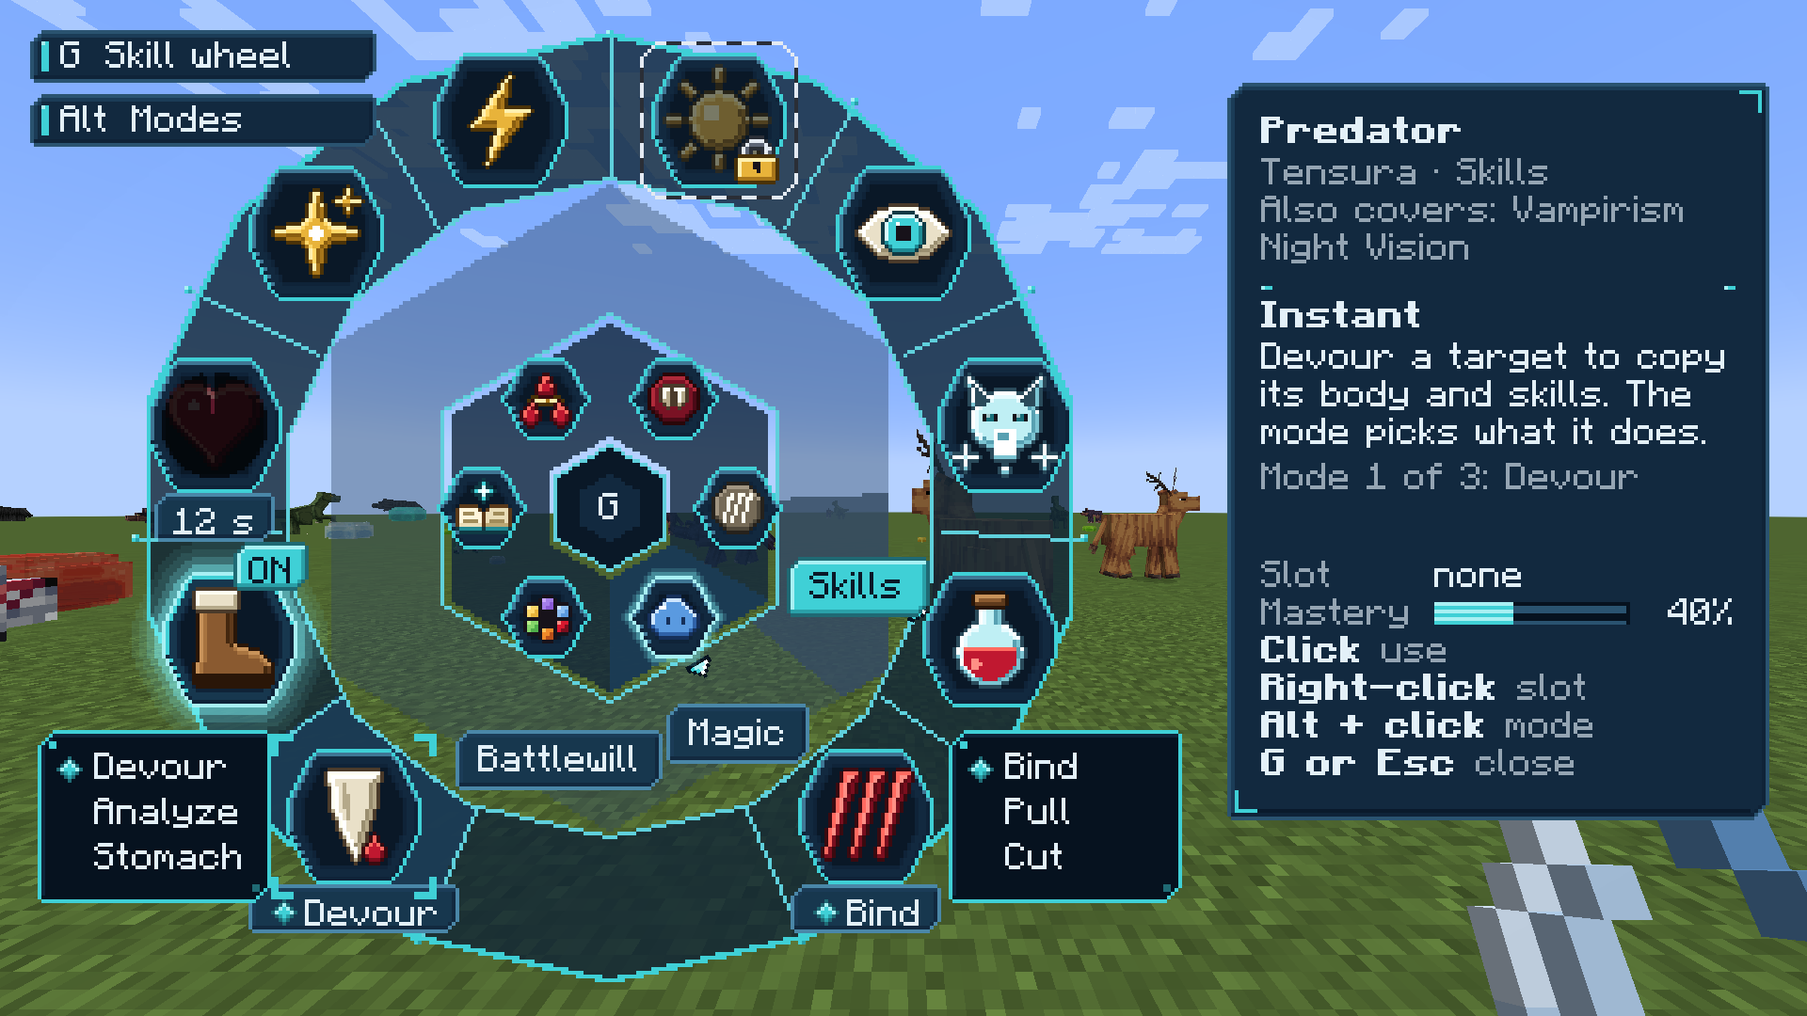
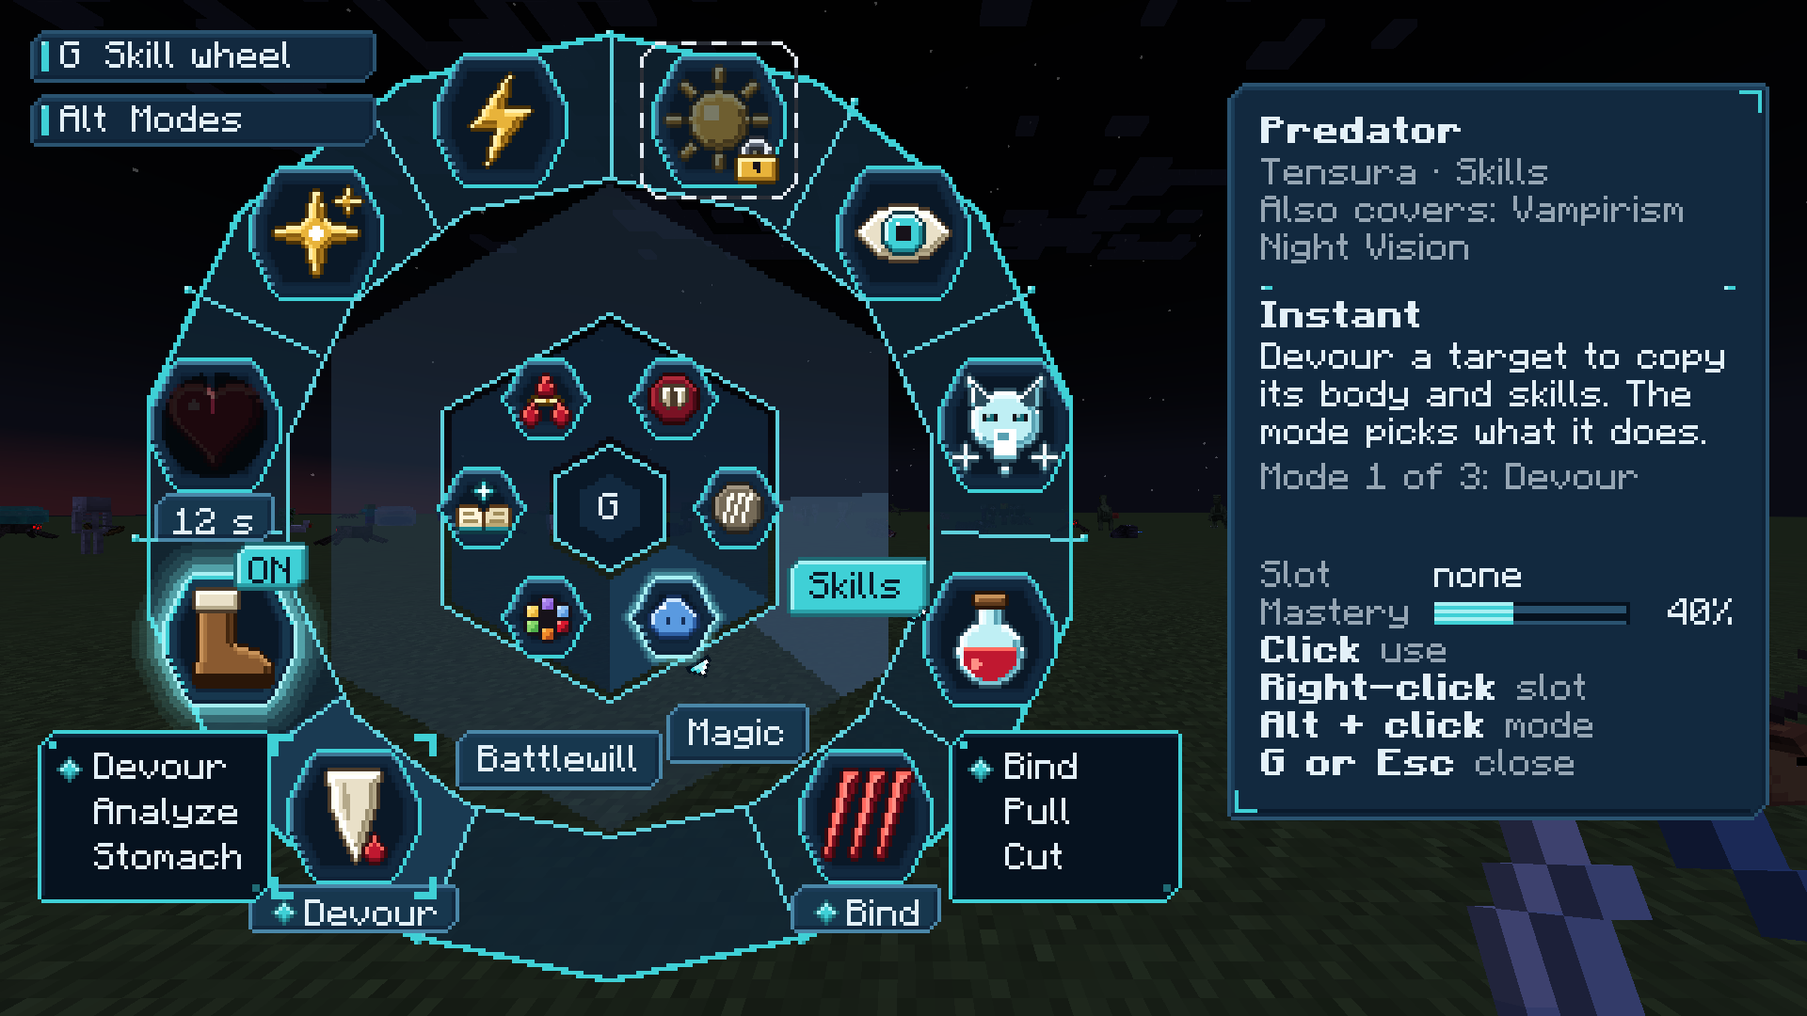
fix(wheel): W4b round-2 notes (lock sprite contrast, lock box sized to its lines, description narrated, scan-code key and window focus, stale hover)

diff --git a/src/main/java/net/ofatech/supernaturalbloodlines/core/wheel/WheelPanelText.java b/src/main/java/net/ofatech/supernaturalbloodlines/core/wheel/WheelPanelText.java
@@ -12,7 +12,9 @@ import net.ofatech.supernaturalbloodlines.shared.hub.kit.TextCache;
  */
 public final class WheelPanelText {
     public static final int LINE = 10;
-    public static final int LOCK_BOX = 42;
+    /** The lock box is a title line and its reason lines between 4 px of padding; the next block starts 4 px under it. */
+    public static final int LOCK_BOX_BASE = 18;
+    public static final int LOCK_BOX_GAP = 4;
     public static final int MAX_LINES = 4;
 
     /** The panel's text, cut and wrapped to fit. {@code description}, {@code mode} and {@code lock} are empty lists when there is nothing (or no room) for them. */
@@ -43,11 +45,16 @@ public final class WheelPanelText {
      * @param top       y where the description would start
      * @param bottom    y of the first row that must stay free (the slot row)
      * @param modeLines how many lines the mode text takes (0 for a power without modes)
-     * @param locked    the lock box is drawn
+     * @param lockLines how many lines of reason the lock box holds (0: no lock box)
      */
-    public static int descriptionLines(int top, int bottom, int modeLines, boolean locked) {
-        int free = bottom - top - modeLines * LINE - (locked ? LOCK_BOX : 0) - 2;
+    public static int descriptionLines(int top, int bottom, int modeLines, int lockLines) {
+        int free = bottom - top - modeLines * LINE - (lockLines > 0 ? lockBoxHeight(lockLines) + LOCK_BOX_GAP : 0) - 2;
         return Math.max(0, Math.min(MAX_LINES, free / LINE));
+    }
+
+    /** How tall the lock box is for {@code reasonLines} lines of reason: the box holds exactly what it says, so a one-line reason leaves a line more for the description. */
+    public static int lockBoxHeight(int reasonLines) {
+        return LOCK_BOX_BASE + LINE * Math.max(1, reasonLines);
     }
 
     /** {@code mode} and {@code lock} are empty strings when the power has no modes or is not locked. */
@@ -56,9 +63,9 @@ public final class WheelPanelText {
         return LINES.get(new LinesKey(font, width, top, bottom, name, where, cover, kind, description, mode, lock), () -> {
             List<String> coverLines = cover.isEmpty() ? List.of() : TextCache.wrap(font, cover, width, 2, measure);
             List<String> modeLines = mode.isEmpty() ? List.of() : TextCache.wrap(font, mode, width, 2, measure);
-            int room = descriptionLines(top + coverLines.size() * LINE, bottom, modeLines.size(), !lock.isEmpty());
-            List<String> desc = description.isEmpty() || room == 0 ? List.of() : TextCache.wrap(font, description, width, room, measure);
             List<String> lockLines = lock.isEmpty() ? List.of() : TextCache.wrap(font, lock, width - 22, 2, measure);
+            int room = descriptionLines(top + coverLines.size() * LINE, bottom, modeLines.size(), lockLines.size());
+            List<String> desc = description.isEmpty() || room == 0 ? List.of() : TextCache.wrap(font, description, width, room, measure);
             return new Lines(TextCache.cut(font, name, width, measure), TextCache.cut(font, where, width, measure), coverLines, TextCache.cut(font, kind, width, measure), desc, modeLines,
                     lockLines);
         });

diff --git a/src/test/java/net/ofatech/supernaturalbloodlines/core/wheel/WheelContrastTest.java b/src/test/java/net/ofatech/supernaturalbloodlines/core/wheel/WheelContrastTest.java
@@ -56,11 +56,52 @@ class WheelContrastTest {
         }
     }
 
+    /** The colours a sprite is drawn in: [0] the lightest and [1] the darkest of those that fill at least a tenth of its opaque pixels (its fill and its outline). */
+    private int[] spriteColours(String path) throws Exception {
+        try (InputStream in = getClass().getResourceAsStream(path)) {
+            assertNotNull(in, path + " is missing");
+            java.awt.image.BufferedImage img = javax.imageio.ImageIO.read(in);
+            java.util.Map<Integer, Integer> counts = new java.util.HashMap<>();
+            int opaque = 0;
+            for (int y = 0; y < img.getHeight(); y++) {
+                for (int x = 0; x < img.getWidth(); x++) {
+                    int argb = img.getRGB(x, y);
+                    if ((argb >>> 24) > 128) {
+                        counts.merge(argb | 0xFF000000, 1, Integer::sum);
+                        opaque++;
+                    }
+                }
+            }
+            final int total = opaque;
+            List<Integer> main = counts.entrySet().stream().filter(e -> e.getValue() * 10 >= total).map(java.util.Map.Entry::getKey).toList();
+            assertTrue(!main.isEmpty(), path + " has no main colour");
+            int light = main.get(0);
+            int dark = main.get(0);
+            for (int c : main) {
+                light = Contrast.ratio(c, 0xFF000000) > Contrast.ratio(light, 0xFF000000) ? c : light;
+                dark = Contrast.ratio(c, 0xFF000000) < Contrast.ratio(dark, 0xFF000000) ? c : dark;
+            }
+            return new int[] {light, dark};
+        }
+    }
+
+    /** The middle of a cell sprite: what the lock is drawn over. */
+    private int cellFace(String kit) throws Exception {
+        try (InputStream in = getClass().getResourceAsStream(SPRITES + "kit/" + kit + "/wheel_cell_36.png")) {
+            assertNotNull(in, kit + " cell is missing");
+            return javax.imageio.ImageIO.read(in).getRGB(18, 18) | 0xFF000000;
+        }
+    }
+
     @Test
-    void theLockOnACellReadsAt3To1() {
-        for (Look look : Look.values()) {
-            WheelPalette p = WheelPalette.of(look);
-            assertTrue(Contrast.ratio(p.lockOnCell(), p.cell()) >= 3.0, look + " lock on its cell: " + Contrast.ratio(p.lockOnCell(), p.cell()));
+    void theLockSpritesOwnColoursReadAt3To1OnEveryThemesCell() throws Exception {
+        for (int size : new int[] {16, 32}) {
+            int[] lock = spriteColours(SPRITES + "icons/" + size + "/lock.png");
+            for (String kit : KitSprites.KITS) {
+                int face = cellFace(kit);
+                double best = Math.max(Contrast.ratio(lock[0], face), Contrast.ratio(lock[1], face));
+                assertTrue(best >= 3.0, String.format("the %d px lock (fill %06x, outline %06x) on the %s cell %06x: %.2f", size, lock[0] & 0xFFFFFF, lock[1] & 0xFFFFFF, kit, face & 0xFFFFFF, best));
+            }
         }
     }
     @Test

diff --git a/src/main/java/net/ofatech/supernaturalbloodlines/core/wheel/WheelPalette.java b/src/main/java/net/ofatech/supernaturalbloodlines/core/wheel/WheelPalette.java
@@ -11,17 +11,17 @@ import net.ofatech.supernaturalbloodlines.core.wheel.WheelLayout.Look;
  * @param onPill the colour of the text on the ON pill and the selected chip, and {@code pill} what it is written on
  */
 public record WheelPalette(int outerBand, int outerLit, int innerBand, int innerLit, int middleTrack, int middleLit, int hub, int seal, int line, int rim, int ink, int muted,
-                           int panel, int warn, int pill, int onPill, int hintInk, int hintOn, int cell, int lockOnCell, int innerLine) {
+                           int panel, int warn, int pill, int onPill, int hintInk, int hintOn, int innerLine) {
     /** A text and what it is written on, for the contrast test. */
     public record TextPair(String what, int fg, int bg) {
     }
 
     public static final WheelPalette GRIMOIRE = new WheelPalette(0xE6CFBF8F, 0xF2F1E8CC, 0xF04A1919, 0xF0E9DDB8, 0x80B7A572, 0xF0F1E8CC, 0xFF260A0A, 0xFF9A1C22, 0xFF5C3A12, 0xFF4A2E0E,
-            0xFF2A1A10, 0xFF6A5236, 0xFFE9DDB8, 0xFF7A1218, 0xFF9A1C22, 0xFFF5ECCF, 0xFFF5ECCF, 0xFF4A1717, 0xFF2A1A10, 0xFFE8806E, 0xFFD9B766);
+            0xFF2A1A10, 0xFF6A5236, 0xFFE9DDB8, 0xFF7A1218, 0xFF9A1C22, 0xFFF5ECCF, 0xFFF5ECCF, 0xFF4A1717, 0xFFD9B766);
     public static final WheelPalette BLOOD_MOON = new WheelPalette(0xCC10060A, 0xE62E0F18, 0xCC1D0B13, 0xE62E141C, 0x66443640, 0xCC53333B, 0xFF211315, 0xFFBE4137, 0xFFE0A9A3, 0xFFFF7A6B,
-            0xFFFFF1EA, 0xFFC9A7A5, 0xFF1D0B13, 0xFFFF7A6B, 0xFFBE4137, 0xFFFFF1EA, 0xFFFFF1EA, 0xFF1D0B13, 0xFF1D0B13, 0xFFFF7A6B, 0xFFE0A9A3);
+            0xFFFFF1EA, 0xFFC9A7A5, 0xFF1D0B13, 0xFFFF7A6B, 0xFFBE4137, 0xFFFFF1EA, 0xFFFFF1EA, 0xFF1D0B13, 0xFFE0A9A3);
     public static final WheelPalette TENSURA = new WheelPalette(0xCC112636, 0xE61B3C56, 0xCC12263B, 0xE61B3C56, 0x66304761, 0xCC354B62, 0xFF0A1827, 0xFF12293F, 0xFF5FD0DC, 0xFF3FD0D6,
-            0xFFE6F3FB, 0xFF97A7B5, 0xFF12293F, 0xFFF0646A, 0xFF3FD0D6, 0xFF0A1827, 0xFFE6F3FB, 0xFF12293F, 0xFF12293F, 0xFFF0646A, 0xFF5FD0DC);
+            0xFFE6F3FB, 0xFF97A7B5, 0xFF12293F, 0xFFF0646A, 0xFF3FD0D6, 0xFF0A1827, 0xFFE6F3FB, 0xFF12293F, 0xFF5FD0DC);
 
     public static WheelPalette of(Look look) {
         return switch (look) {

diff --git a/src/main/java/net/ofatech/supernaturalbloodlines/parts/hud/client/wheel/WheelInput.java b/src/main/java/net/ofatech/supernaturalbloodlines/parts/hud/client/wheel/WheelInput.java
@@ -14,6 +14,7 @@ import net.neoforged.neoforge.common.NeoForge;
 import net.ofatech.supernaturalbloodlines.core.wheel.GestureMachine;
 import net.ofatech.supernaturalbloodlines.core.wheel.GestureMachine.Effect;
 import net.ofatech.supernaturalbloodlines.core.wheel.GestureMachine.Input;
+import net.ofatech.supernaturalbloodlines.core.wheel.KeyPoll;
 import net.ofatech.supernaturalbloodlines.core.wheel.WheelPalette;
 import net.ofatech.supernaturalbloodlines.parts.hud.client.HudClientConfig;
 import net.ofatech.supernaturalbloodlines.parts.hud.client.HudKeys;
@@ -153,7 +154,7 @@ public final class WheelInput {
             WheelActions.release();
         }
         if (machine.pending()) {
-            if (!live() || !physicallyDown(mc)) {
+            if (!live() || !physicallyDown(mc)) { // the poll and the window
                 machine = GestureMachine.IDLE;
                 return;
             }
@@ -167,11 +168,13 @@ public final class WheelInput {
         if (key.equals(InputConstants.UNKNOWN)) {
             return false;
         }
-        if (key.getType() == InputConstants.Type.MOUSE) {
-            return GLFW.glfwGetMouseButton(window, key.getValue()) == GLFW.GLFW_PRESS;
-        }
-        // a key bound by scan code cannot be polled by its code: the release event ends the press instead
-        return key.getType() != InputConstants.Type.KEYSYM || InputConstants.isKeyDown(window, key.getValue());
+        KeyPoll.Kind kind = key.getType() == InputConstants.Type.MOUSE ? KeyPoll.Kind.MOUSE : key.getType() == InputConstants.Type.KEYSYM ? KeyPoll.Kind.KEYSYM : KeyPoll.Kind.SCANCODE;
+        boolean polled = switch (kind) {
+            case MOUSE -> GLFW.glfwGetMouseButton(window, key.getValue()) == GLFW.GLFW_PRESS;
+            case KEYSYM -> InputConstants.isKeyDown(window, key.getValue());
+            case SCANCODE -> false; // not pollable by its code: the release event ends the press, or the window going inactive
+        };
+        return KeyPoll.pendingStillDown(kind, polled, mc.isWindowActive());
     }
 
     private static void step(Input in, boolean overPower) {

diff --git a/src/main/java/net/ofatech/supernaturalbloodlines/parts/hud/client/wheel/WheelScreen.java b/src/main/java/net/ofatech/supernaturalbloodlines/parts/hud/client/wheel/WheelScreen.java
@@ -170,6 +170,7 @@ public final class WheelScreen extends Screen {
             return;
         }
         layoutKey = key;
+        boolean rehit = layout != null;
         pageTotal = all.size();
         int from = Math.min(all.size(), open.page() * WheelLayout.PAGE_SIZE);
         page = all.subList(from, Math.min(all.size(), from + WheelLayout.PAGE_SIZE));
@@ -180,6 +181,9 @@ public final class WheelScreen extends Screen {
                 widths[i] = WheelPanelText.width(font, WheelRenderer.text("group." + groups.get(i).name().toLowerCase(Locale.ROOT)), font::width) + 10;
             }
             layout = layout.withLabelWidths(widths);
+        }
+        if (rehit && pickerRef == null && !DevWheel.active) {
+            cursor.rehit(layout.hit(mouseX, mouseY).orElse(null)); // the list changed under a resting pointer
         }
     }
 
@@ -643,7 +647,7 @@ public final class WheelScreen extends Screen {
         String state = WheelNarration.stateWord(e.state().on(), e.state().cooldownLeft(now), (key, args) -> Component.translatable(key, args).getString());
         String lock = e.state().locked() ? WheelRenderer.text("state.locked", WheelRenderer.reason(e.state().lock())) : "";
         List<String> lines = WheelNarration.lines(WheelRenderer.modName(source), groups.isEmpty() ? "" : WheelRenderer.text("group." + e.group().name().toLowerCase(Locale.ROOT)),
-                e.name().getString(), e.coverNote().getString(), e.modeNames().size() > 1 ? e.modeName().getString() : "", state, lock, open.page() * WheelLayout.PAGE_SIZE + h.index() + 1, pageTotal,
+                e.name().getString(), e.coverNote().getString(), WheelDescriptions.of(e), e.modeNames().size() > 1 ? e.modeName().getString() : "", state, lock, open.page() * WheelLayout.PAGE_SIZE + h.index() + 1, pageTotal,
                 open.page() + 1, layout.pageCount(), (key, args) -> Component.translatable(key, args).getString());
         out.add(NarratedElementType.TITLE, Component.literal(String.join(", ", lines)));
     }

diff --git a/src/main/java/net/ofatech/supernaturalbloodlines/core/wheel/WheelNarration.java b/src/main/java/net/ofatech/supernaturalbloodlines/core/wheel/WheelNarration.java
@@ -32,6 +32,12 @@ public final class WheelNarration {
     /** As above, with what else the power stands for (rule C) said right after its name; empty for nothing. */
     public static List<String> lines(String mod, String group, String power, String cover, String mode, String state, String lockReason, int index, int total, int page, int pages,
             BiFunction<String, Object[], String> translate) {
+        return lines(mod, group, power, cover, "", mode, state, lockReason, index, total, page, pages, translate);
+    }
+
+    /** As above, with the power's own description read after what it covers: the side panel shows it, and no one who cannot see the panel should miss it. */
+    public static List<String> lines(String mod, String group, String power, String cover, String description, String mode, String state, String lockReason, int index, int total, int page,
+            int pages, BiFunction<String, Object[], String> translate) {
         List<String> out = new ArrayList<>();
         out.add(mod);
         if (group != null && !group.isEmpty()) {
@@ -44,6 +50,9 @@ public final class WheelNarration {
         out.add(power);
         if (cover != null && !cover.isEmpty()) {
             out.add(cover);
+        }
+        if (description != null && !description.isEmpty()) {
+            out.add(description);
         }
         if (mode != null && !mode.isEmpty()) {
             out.add(mode);

diff --git a/src/test/java/net/ofatech/supernaturalbloodlines/core/wheel/WheelHudViewTest.java b/src/test/java/net/ofatech/supernaturalbloodlines/core/wheel/WheelHudViewTest.java
@@ -29,11 +29,14 @@ class WheelHudViewTest {
 
     @Test
     void descriptionGetsWhatIsLeftAfterTheModeLineAndTheLockBox() {
-        assertEquals(4, WheelPanelText.descriptionLines(50, 130, 0, false));
-        assertEquals(4, WheelPanelText.descriptionLines(50, 130, 2, false));
-        assertEquals(1, WheelPanelText.descriptionLines(50, 130, 2, true), "80 - 20 - 42 - 2 = 16: one line");
-        assertEquals(0, WheelPanelText.descriptionLines(90, 130, 2, true));
-        assertEquals(0, WheelPanelText.descriptionLines(130, 100, 0, false), "no room, no lines, never a negative");
+        assertEquals(4, WheelPanelText.descriptionLines(50, 130, 0, 0));
+        assertEquals(4, WheelPanelText.descriptionLines(50, 130, 2, 0));
+        assertEquals(1, WheelPanelText.descriptionLines(50, 130, 2, 2), "80 - 20 - (38 + 4) - 2 = 16: one line");
+        assertEquals(2, WheelPanelText.descriptionLines(50, 130, 2, 1), "a one-line reason makes a 28 px box: 80 - 20 - (28 + 4) - 2 = 26, two lines");
+        assertEquals(38, WheelPanelText.lockBoxHeight(2));
+        assertEquals(28, WheelPanelText.lockBoxHeight(1));
+        assertEquals(0, WheelPanelText.descriptionLines(90, 130, 2, 2));
+        assertEquals(0, WheelPanelText.descriptionLines(130, 100, 0, 0), "no room, no lines, never a negative");
     }
 
     @Test

diff --git a/src/test/java/net/ofatech/supernaturalbloodlines/core/wheel/WheelPanelTextTest.java b/src/test/java/net/ofatech/supernaturalbloodlines/core/wheel/WheelPanelTextTest.java
@@ -45,6 +45,17 @@ class WheelPanelTextTest {
     }
 
     @Test
+    void aShortLockReasonLeavesTheDescriptionItsFullLines() {
+        String text = "Scorching air burns everything near you and keeps burning whatever the wind does, for as long as the power stays on.";
+        WheelPanelText.Lines shortReason = WheelPanelText.lines(FONT, this::measure, 110, 50, 130, "Heat Wave", "Tensura", "", "Toggle", text, "", "Locked");
+        WheelPanelText.Lines longReason = WheelPanelText.lines(FONT, this::measure, 110, 50, 130, "Heat Wave", "Tensura", "", "Toggle", text, "",
+                "Needs Fire Resistance level 6 and a stronger body to use it");
+        assertEquals(1, shortReason.lock().size());
+        assertEquals(2, longReason.lock().size());
+        assertTrue(shortReason.description().size() > longReason.description().size(), "a box that holds one line is shorter: " + shortReason.description() + " vs " + longReason.description());
+    }
+
+    @Test
     void theCoverNoteIsWrappedUnderTheNameAndPushesTheDescriptionDown() {
         String cover = "Also covers: Vampirism Night Vision, Werewolves Sense";
         String text = "A long description that goes on and on and on for a while.";

diff --git a/src/test/java/net/ofatech/supernaturalbloodlines/core/wheel/ClickAndNarrationTest.java b/src/test/java/net/ofatech/supernaturalbloodlines/core/wheel/ClickAndNarrationTest.java
@@ -154,6 +154,15 @@ class ClickAndNarrationTest {
     }
 
     @Test
+    void theDescriptionIsReadAfterTheNameAndWhatItCovers() {
+        assertEquals(List.of("Tensura", "Skills", "1 of 3", "Heat Wave", "Also covers: Vampirism Night Vision", "Scorching air.", "Devour", "ready"),
+                WheelNarration.lines("Tensura", "Skills", "Heat Wave", "Also covers: Vampirism Night Vision", "Scorching air.", "Devour", "ready", "", 1, 3, 1, 1, ClickAndNarrationTest::tr));
+        assertEquals(List.of("Tensura", "Skills", "1 of 3", "Heat Wave", "Scorching air.", "ready"),
+                WheelNarration.lines("Tensura", "Skills", "Heat Wave", "", "Scorching air.", "", "ready", "", 1, 3, 1, 1, ClickAndNarrationTest::tr));
+        assertEquals(List.of("Tensura", "Skills", "1 of 3", "Heat Wave", "ready"), WheelNarration.lines("Tensura", "Skills", "Heat Wave", "", "", "", "ready", "", 1, 3, 1, 1, ClickAndNarrationTest::tr));
+    }
+
+    @Test
     void stateIsWordsNotColour() {
         List<String> ready = WheelNarration.lines("Tensura", "Skills", "Coercion", "", "ready", "", 1, 3, 1, 1, ClickAndNarrationTest::tr);
         assertEquals("ready", ready.get(ready.size() - 1));

diff --git a/src/test/java/net/ofatech/supernaturalbloodlines/core/wheel/KeyPollTest.java b/src/test/java/net/ofatech/supernaturalbloodlines/core/wheel/KeyPollTest.java
@@ -1,0 +1,25 @@
+package net.ofatech.supernaturalbloodlines.core.wheel;
+
+import static org.junit.jupiter.api.Assertions.assertFalse;
+import static org.junit.jupiter.api.Assertions.assertTrue;
+
+import net.ofatech.supernaturalbloodlines.core.wheel.KeyPoll.Kind;
+import org.junit.jupiter.api.Test;
+
+class KeyPollTest {
+    @Test
+    void aScanCodeKeyEndsWhenTheWindowStopsBeingActive() {
+        assertTrue(KeyPoll.pendingStillDown(Kind.SCANCODE, false, true), "no poll exists: the press stands until the release event");
+        assertFalse(KeyPoll.pendingStillDown(Kind.SCANCODE, false, false), "the release went to another window and will never come");
+        assertFalse(KeyPoll.pendingStillDown(Kind.SCANCODE, true, false));
+    }
+
+    @Test
+    void aPolledKeyOrButtonIsHeldOnlyWhileThePollSaysSoAndTheWindowIsActive() {
+        for (Kind k : new Kind[] {Kind.KEYSYM, Kind.MOUSE}) {
+            assertTrue(KeyPoll.pendingStillDown(k, true, true), k.name());
+            assertFalse(KeyPoll.pendingStillDown(k, false, true), k.name());
+            assertFalse(KeyPoll.pendingStillDown(k, true, false), k.name());
+        }
+    }
+}

diff --git a/src/test/java/net/ofatech/supernaturalbloodlines/core/wheel/WheelInteractionTest.java b/src/test/java/net/ofatech/supernaturalbloodlines/core/wheel/WheelInteractionTest.java
@@ -36,6 +36,21 @@ class WheelInteractionTest {
     }
 
     @Test
+    void aChangedListLooksAgainWhereAMouseHoverIsButNeverTakesAKeyFocusBack() {
+        WheelCursor c = new WheelCursor();
+        Hit focused = new Hit(Ring.OUTER, 5);
+        c.mouseMoved(new Hit(Ring.OUTER, 2));
+        c.rehit(new Hit(Ring.OUTER, 3));
+        assertEquals(new Hit(Ring.OUTER, 3), c.active().orElseThrow(), "the list changed: the cell under the resting pointer is another one");
+        c.rehit(null);
+        assertTrue(c.hover().isEmpty(), "nothing is under it any more");
+        c.keyFocus(focused);
+        c.rehit(new Hit(Ring.OUTER, 1));
+        assertEquals(focused, c.active().orElseThrow(), "a key set the focus: a pointer that did not move does not take it back");
+        assertTrue(c.hover().isEmpty());
+    }
+
+    @Test
     void aKeyMovesTheFocusAndARestingMouseDoesNotTakeItBack() {
         WheelCursor c = new WheelCursor();
         Hit under = new Hit(Ring.OUTER, 2);

diff --git a/src/main/java/net/ofatech/supernaturalbloodlines/parts/hud/client/wheel/WheelRenderer.java b/src/main/java/net/ofatech/supernaturalbloodlines/parts/hud/client/wheel/WheelRenderer.java
@@ -225,7 +225,7 @@ final class WheelRenderer {
             }
             if (locked) {
                 UiKit.shared(g, KitSprites.WHEEL_LOCK_OUTLINE, c.x() - 3, c.y() - 3, 42, 42, 1f);
-                KitDraw.icon(g, Icons.LOCK, c.x() + 21, c.y() + 21, 14, f.pal().lockOnCell());
+                KitDraw.icon(g, Icons.LOCK, c.x() + 21, c.y() + 21, 14, 0xFFFFFFFF); // the sprite keeps its own gold: WheelContrastTest checks it on every cell
             }
             if (on) {
                 String t = text("on");
@@ -332,7 +332,7 @@ final class WheelRenderer {
             y += 10;
         }
         if (e.state().locked()) {
-            int bh = 38;
+            int bh = WheelPanelText.lockBoxHeight(t.lock().size());
             UiKit.draw(g, f.kit(), KitSprites.CARD, x - 2, y, w + 4, bh);
             KitDraw.icon(g, Icons.LOCK, x + 2, y + 12, 14, pal.warn());
             g.drawString(font, WheelStrings.bold(text("locked")), x + 20, y + 4, pal.warn(), false);
